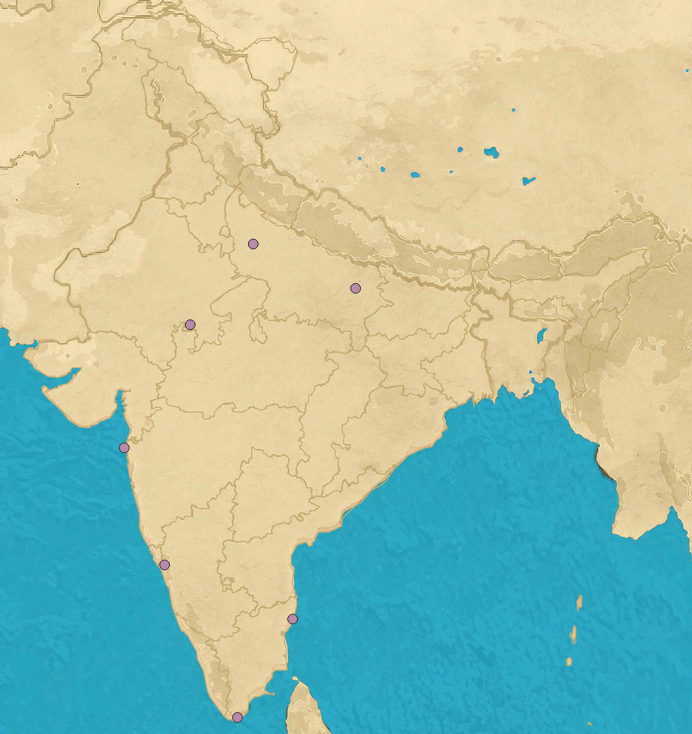
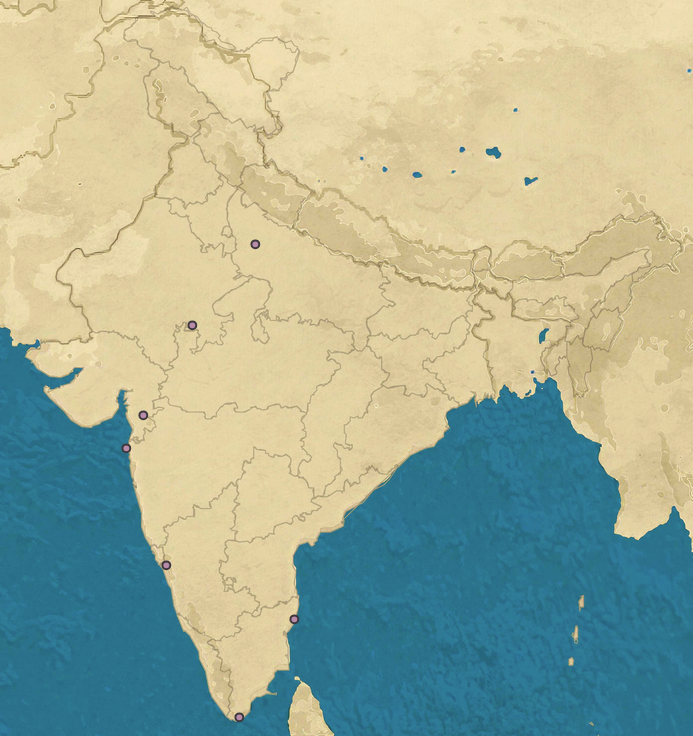
2025-03-14
● added the following maps:
- Oil Fields
- Natural Gas
● updated the following:
- NPP Map

diff --git a/Map_Economy/Map_2.3_Natural_Gas/map_data.js b/Map_Economy/Map_2.3_Natural_Gas/map_data.js
@@ -1,0 +1,29 @@
+const mapData = {
+"Jaisalmer Gas Fields":"POLYGON ((70.781672 27.6323896, 70.7267404 27.4278009, 71.0892892 27.1544255, 71.2321115 27.2423696, 71.2540841 27.554496, 71.2211252 27.7491262, 70.781672 27.6323896))",
+"Cambay Basin":"POLYGON ((72.6890477 21.0938798, 72.6912459 21.3882026, 72.684557 21.544207, 72.681204 21.631608, 72.55025 21.777535, 72.63784 21.960624, 72.595972 22.273474, 72.6051973 22.4293675, 72.5044784 22.5192313, 72.3744994 22.5048344, 72.2714346 22.4569753, 72.2188338 22.3084871, 72.1693954 22.0719738, 72.191861 21.826654, 72.1968612 21.5262384, 72.088755 21.229033, 72.6890477 21.0938798))",
+"Mumbai High Gas Fields":"POLYGON ((71.5461931 19.2853221, 71.2714648 19.4408351, 71.1286066 19.2749488, 71.0077287 18.869901, 70.9527875 18.2344094, 71.1176234 17.8896463, 71.3044349 17.732714, 71.5461907 17.9314722, 71.6121254 18.432603, 71.5791594 18.8595031, 71.5461931 19.2853221))",
+"Cauvery Basin":"POLYGON ((80.1071418 10.2645675, 80.178553 10.2105104, 80.4696907 10.2267285, 80.6234993 10.4050726, 80.6729377 10.5725152, 80.579554 11.0311596, 80.5740608 11.2952317, 80.4367317 11.5967307, 80.211512 11.6559157, 80.1236213 11.629015, 79.9972786 11.5267686, 80.0137581 11.3921771, 80.0302375 11.2952317, 80.0137581 11.1120235, 80.079676 10.8909429, 80.112635 10.718278, 80.0302375 10.5239122, 80.1071418 10.2645675))",
+"Tripura Gas Fields":"POLYGON ((91.393075 23.062232, 91.3127705 23.1479893, 91.304051 23.297707, 91.272479 23.43287, 91.178387 23.587282, 91.157768 23.689379, 91.2990661 23.7266525, 91.506429 23.699405, 91.7000386 23.6772808, 91.9032857 23.6017976, 91.967034 23.53823, 91.936684 23.434844, 91.861932 23.436248, 91.824699 23.348358, 91.764418 23.309903, 91.835327 23.095778, 91.748239 23.012993, 91.670542 22.978553, 91.6074 22.957906, 91.5792 22.969996, 91.543527 23.024195, 91.4505648 23.2443264, 91.4121897 23.2750743, 91.384455 23.195176, 91.414246 23.064209, 91.393075 23.062232))",
+"HVJ (1984)":"LINESTRING (72.7084338 21.2086343, 73.2632434 22.2495958, 73.1812187 22.3071588, 73.3071887 22.2800974, 74.47663 22.856305, 74.8397815 22.949438, 75.9567378 23.6628937, 77.1760686 24.5439672, 78.5539881 25.1940002, 76.7568957 25.206082, 76.3270647 25.1546846, 76.7568957 25.206082, 78.5539881 25.1940002, 79.247998 26.965981, 81.572356 26.458429, 79.247998 26.965981, 79.8021423 27.8609669, 79.5659362 28.3551853, 79.077109 28.311497, 78.3464538 28.7219392, 77.165938 28.74728, 77.0150735 28.9930823)",
+"Hazira (GJ | starting point of HVJ)":"POINT (72.6587856 21.1784184)",
+"Vijaipur (Guna | MP | Compression stations + NFL)":"POINT (77.1600201 24.4829658)",
+"Anta TPP (Baran | RS)":"POINT (76.2929779 25.1545849)",
+"NTPC Auraiya":"POINT (79.5287359 26.6297815)",
+"Vadodara (GAIL Gas Processing | GJ)":"POINT (73.1812187 22.3071588)",
+"Jhabua (MP | Compression station)":"POINT (74.5920921 22.769666)",
+"Aonla (Bareilly | Fertilizer Plant)":"POINT (79.1604971 28.2699017)",
+"Delhi (City Gas Distribution)":"POINT (77.1024902 28.7040592)",
+"Sonipat (Industrial Gas Supply)":"POINT (77.0150735 28.9930823)",
+"Shahjahanpur (City Gas Distribution)":"POINT (79.9147268 27.8753399)",
+"Jagdishpur":"POINT (81.6182661 26.4598721)"
+};
+
+
+/* 
+"":"",
+"":"",
+"":"",
+"":"",
+"":"",
+"":"",
+remove comma for ending river*/

diff --git a/index.html b/index.html
@@ -63,12 +63,27 @@ margin-top:10px;
 
 					<div class="button-container"  id="button-container-1">
 
-				<div class="label_heading">India:</div>
+				<div class="label_heading">Core Geography:</div>
 						<input type="radio" id="option1" name="selection" value="riv_1" checked 	>
 						<label for="option1" >
 							<span class="left-text">Rivers</span>
 
 						</label>
+
+						<input type="radio" id="option6" name="selection" value="dm_1">
+						<label for="option6">
+							<span class="left-text">Dams & Reservoirs</span>
+
+						</label>
+						
+						<input type="radio" id="option7" name="selection" value="wf_1">
+						<label for="option7">
+							<span class="left-text">Waterfalls</span>
+
+						</label>
+
+
+
 					
 						<input type="radio" id="option2" name="selection" value="mt_1">
 						<label for="option2">
@@ -82,6 +97,13 @@ margin-top:10px;
 
 						</label>
 
+						
+						
+
+
+
+
+			<div class="label_heading">Environment:</div>
 						<input type="radio" id="option3" name="selection" value="np_1">
 						<label for="option3">
 							<span class="left-text">National Parks</span>
@@ -100,17 +122,9 @@ margin-top:10px;
 
 						</label>
 
-						<input type="radio" id="option6" name="selection" value="dm_1">
-						<label for="option6">
-							<span class="left-text">Reservoirs</span>
+						
 
-						</label>
-
-						<input type="radio" id="option7" name="selection" value="wf_1">
-						<label for="option7">
-							<span class="left-text">Waterfalls</span>
-
-						</label>
+						
 
 			<div class="label_heading">World:</div>
 						<input type="radio" id="option8" name="selection" value="wld_1">
@@ -353,6 +367,15 @@ margin-top:10px;
 					<span class="left-text">Coal</span>
 				</label>
 
+				<input type="radio" class="form_3" id="option322" name="selection" value="erg_2">
+				<label for="option322">
+					<span class="left-text">Oil Fields (Crude)</span>
+				</label>
+
+				<input type="radio" class="form_3" id="option323" name="selection" value="erg_3">
+				<label for="option323">
+					<span class="left-text">Natural Gas</span>
+				</label>
 
 
 				<div class="label_heading">Infra:</div>
@@ -638,6 +661,10 @@ document.addEventListener("DOMContentLoaded", function () {
       mapImage.src = "Map_Images/index/min_4.png";
     } else if (selectedValue === "erg_1") {
       mapImage.src = "Map_Images/index/erg_1.png";
+    } else if (selectedValue === "erg_2") {
+      mapImage.src = "Map_Images/index/erg_2.png";
+    } else if (selectedValue === "erg_3") {
+      mapImage.src = "Map_Images/index/erg_3.png";
     } 
 	
     // Display the image

diff --git a/common/Map_Game_2_dark.html b/common/Map_Game_2_dark.html
@@ -202,6 +202,8 @@ const resourcesMap = {
     'min_3': { script: '../Map_Economy/Map_1.3_Bauxite/map_data.js', css: '../Map_Economy/Map_1.3_Bauxite/location_color.css' },
     'min_4': { script: '../Map_Economy/Map_1.4_Mica/map_data.js', css: '../Map_Economy/Map_1.4_Mica/location_color.css' },
     'erg_1': { script: '../Map_Economy/Map_2.1_Coal/map_data.js', css: '../Map_Economy/Map_2.1_Coal/location_color.css' },
+    'erg_2': { script: '../Map_Economy/Map_2.2_Oil_Fields/map_data.js', css: '../Map_Economy/Map_2.2_Oil_Fields/location_color.css' },
+    'erg_3': { script: '../Map_Economy/Map_2.3_Natural_Gas/map_data.js', css: '../Map_Economy/Map_2.3_Natural_Gas/location_color.css' },
     'NPP_1': { script: '../Map_Economy/Map_3.1_NPP/map_data.js', css: '../Map_Economy/Map_3.1_NPP/location_color.css' },
     'Ports_1': { script: '../Map_Economy/Map_3.2_Ports/map_data.js', css: '../Map_Economy/Map_3.2_Ports/location_color.css' },
     'air_1': { script: '../Map_Economy/Map_3.5_Airports/map_data.js', css: '../Map_Economy/Map_3.5_Airports/location_color.css' },

diff --git a/common/Map_Game_dark.html b/common/Map_Game_dark.html
@@ -118,6 +118,8 @@ const resourcesMap = {
     'min_3': { script: '../Map_Economy/Map_1.3_Bauxite/map_data.js', css: '../Map_Economy/Map_1.3_Bauxite/location_color.css' },
     'min_4': { script: '../Map_Economy/Map_1.4_Mica/map_data.js', css: '../Map_Economy/Map_1.4_Mica/location_color.css' },
     'erg_1': { script: '../Map_Economy/Map_2.1_Coal/map_data.js', css: '../Map_Economy/Map_2.1_Coal/location_color.css' },
+    'erg_2': { script: '../Map_Economy/Map_2.2_Oil_Fields/map_data.js', css: '../Map_Economy/Map_2.2_Oil_Fields/location_color.css' },
+    'erg_3': { script: '../Map_Economy/Map_2.3_Natural_Gas/map_data.js', css: '../Map_Economy/Map_2.3_Natural_Gas/location_color.css' },
     'NPP_1': { script: '../Map_Economy/Map_3.1_NPP/map_data.js', css: '../Map_Economy/Map_3.1_NPP/location_color.css' },
     'Ports_1': { script: '../Map_Economy/Map_3.2_Ports/map_data.js', css: '../Map_Economy/Map_3.2_Ports/location_color.css' },
     'air_1': { script: '../Map_Economy/Map_3.5_Airports/map_data.js', css: '../Map_Economy/Map_3.5_Airports/location_color.css' },

diff --git a/Map_Economy/Map_2.3_Natural_Gas/location_color.css b/Map_Economy/Map_2.3_Natural_Gas/location_color.css
@@ -1,0 +1,33 @@
+.leaflet-interactive {
+	cursor: crosshair;   
+ 
+	stroke: #2d2d2d !important; 
+	color: #8ccee8 !important; 	
+	fill: #8ccee8 !important;
+	stroke-width: 1px !important;
+}
+	
+
+.leaflet-interactive:hover{
+	stroke: #2d2d2d !important; 
+	color: #8ccee8 !important; 	
+	Color:#8ccee8 !important; 		
+	fill: #8ccee8 !important;
+	stroke-width: 1px !important;
+}
+
+
+
+
+.line_leaflet.leaflet-interactive{
+	stroke: #1b1a1a !important;
+	stroke-width: 1px !important;
+	fill: rgba(49, 130, 142, 0) !important;
+}
+
+
+.polygon_leaflet.leaflet-interactive{
+	stroke: #000000 !important;
+	stroke-width: 1px !important;
+	fill: rgb(174, 232, 255, 0.5) !important;
+}

diff --git a/Map_Economy/Map_2.2_Oil_Fields/map_data.js b/Map_Economy/Map_2.2_Oil_Fields/map_data.js
@@ -1,0 +1,21 @@
+const mapData = {
+"Mangla, Bhagyam, Aishwarya Oil-fields (Barmer Basin | RS)":"POINT (71.52123 25.95188)", 
+"Kalol (Gandhinagar | GJ)":"POINT (72.4929716 23.2418194)",
+"Ankleshwar (Bharuch | GJ)":"POINT (73.0151984 21.6264236)",
+"Bassein":"POINT (72.0651061 19.7724722)",
+"Mumbai High":"POINT (72.4338321 18.674367)",
+"Digboi (Tinsukia | AS)":"POINT (95.6286636 27.395032)",
+"Naharkatia (Dibrugarh | AS)":"POINT (95.325754 27.2862086)",
+"Moran (Dibrugarh | AS)":"POINT (94.9195154 27.175724)",
+"Sivasagar (AS)":"POINT (94.639424 26.989087)"
+};
+
+
+/* 
+"":"",
+"":"",
+"":"",
+"":"",
+"":"",
+"":"",
+remove comma for ending river*/

diff --git a/Map_Economy/Map_3.1_NPP/map_data.js b/Map_Economy/Map_3.1_NPP/map_data.js
@@ -2,7 +2,7 @@ const mapData = {
 "Narora Atomic Power Station" 
 : "POINT (78.40971 28.15734)",
 "Rawatbhata Atomic Power Station" : "POINT (75.58841 24.93609)",
-"Kakrapar Atomic Power Station" : "POINT (82.97972 26.4036)",
+"Kakrapar Atomic Power Station (GJ)<br><span style='font-size:10px;'>(near Mandvi, Surat & Tapi river)</span>" : "POINT (73.40918 21.19843)",
 "Tarapur Atomic Power Station" : "POINT (72.6617 19.83209)",
 "Kaiga Atomic Power Station" : "POINT (74.42158 14.8564)",
 "Kalpakkam NPP" : "POINT (80.15681 12.52381)",

diff --git a/Map_Economy/Map_2.2_Oil_Fields/location_color.css b/Map_Economy/Map_2.2_Oil_Fields/location_color.css
@@ -1,0 +1,21 @@
+.leaflet-interactive {
+	cursor: crosshair;   
+ 
+	stroke: #b0b0b0 !important; 
+	color: #752426 !important; 	
+	fill: #752426 !important;
+	stroke-width: 1px !important;
+}
+	
+
+.leaflet-interactive:hover{
+	stroke: #b0b0b0 !important; 
+	color: #752426 !important; 	
+	Color:#752426 !important; 		
+	fill: #752426 !important;
+	stroke-width: 1px !important;
+}
+
+
+
+

diff --git a/index_styles.css b/index_styles.css
@@ -1,6 +1,7 @@
 .label_heading{
 	text-align: left !important;
 	transform: translateX(-44px);
+	font-size: 19px;
 }
 
 .label_heading + input[type="radio"] {
